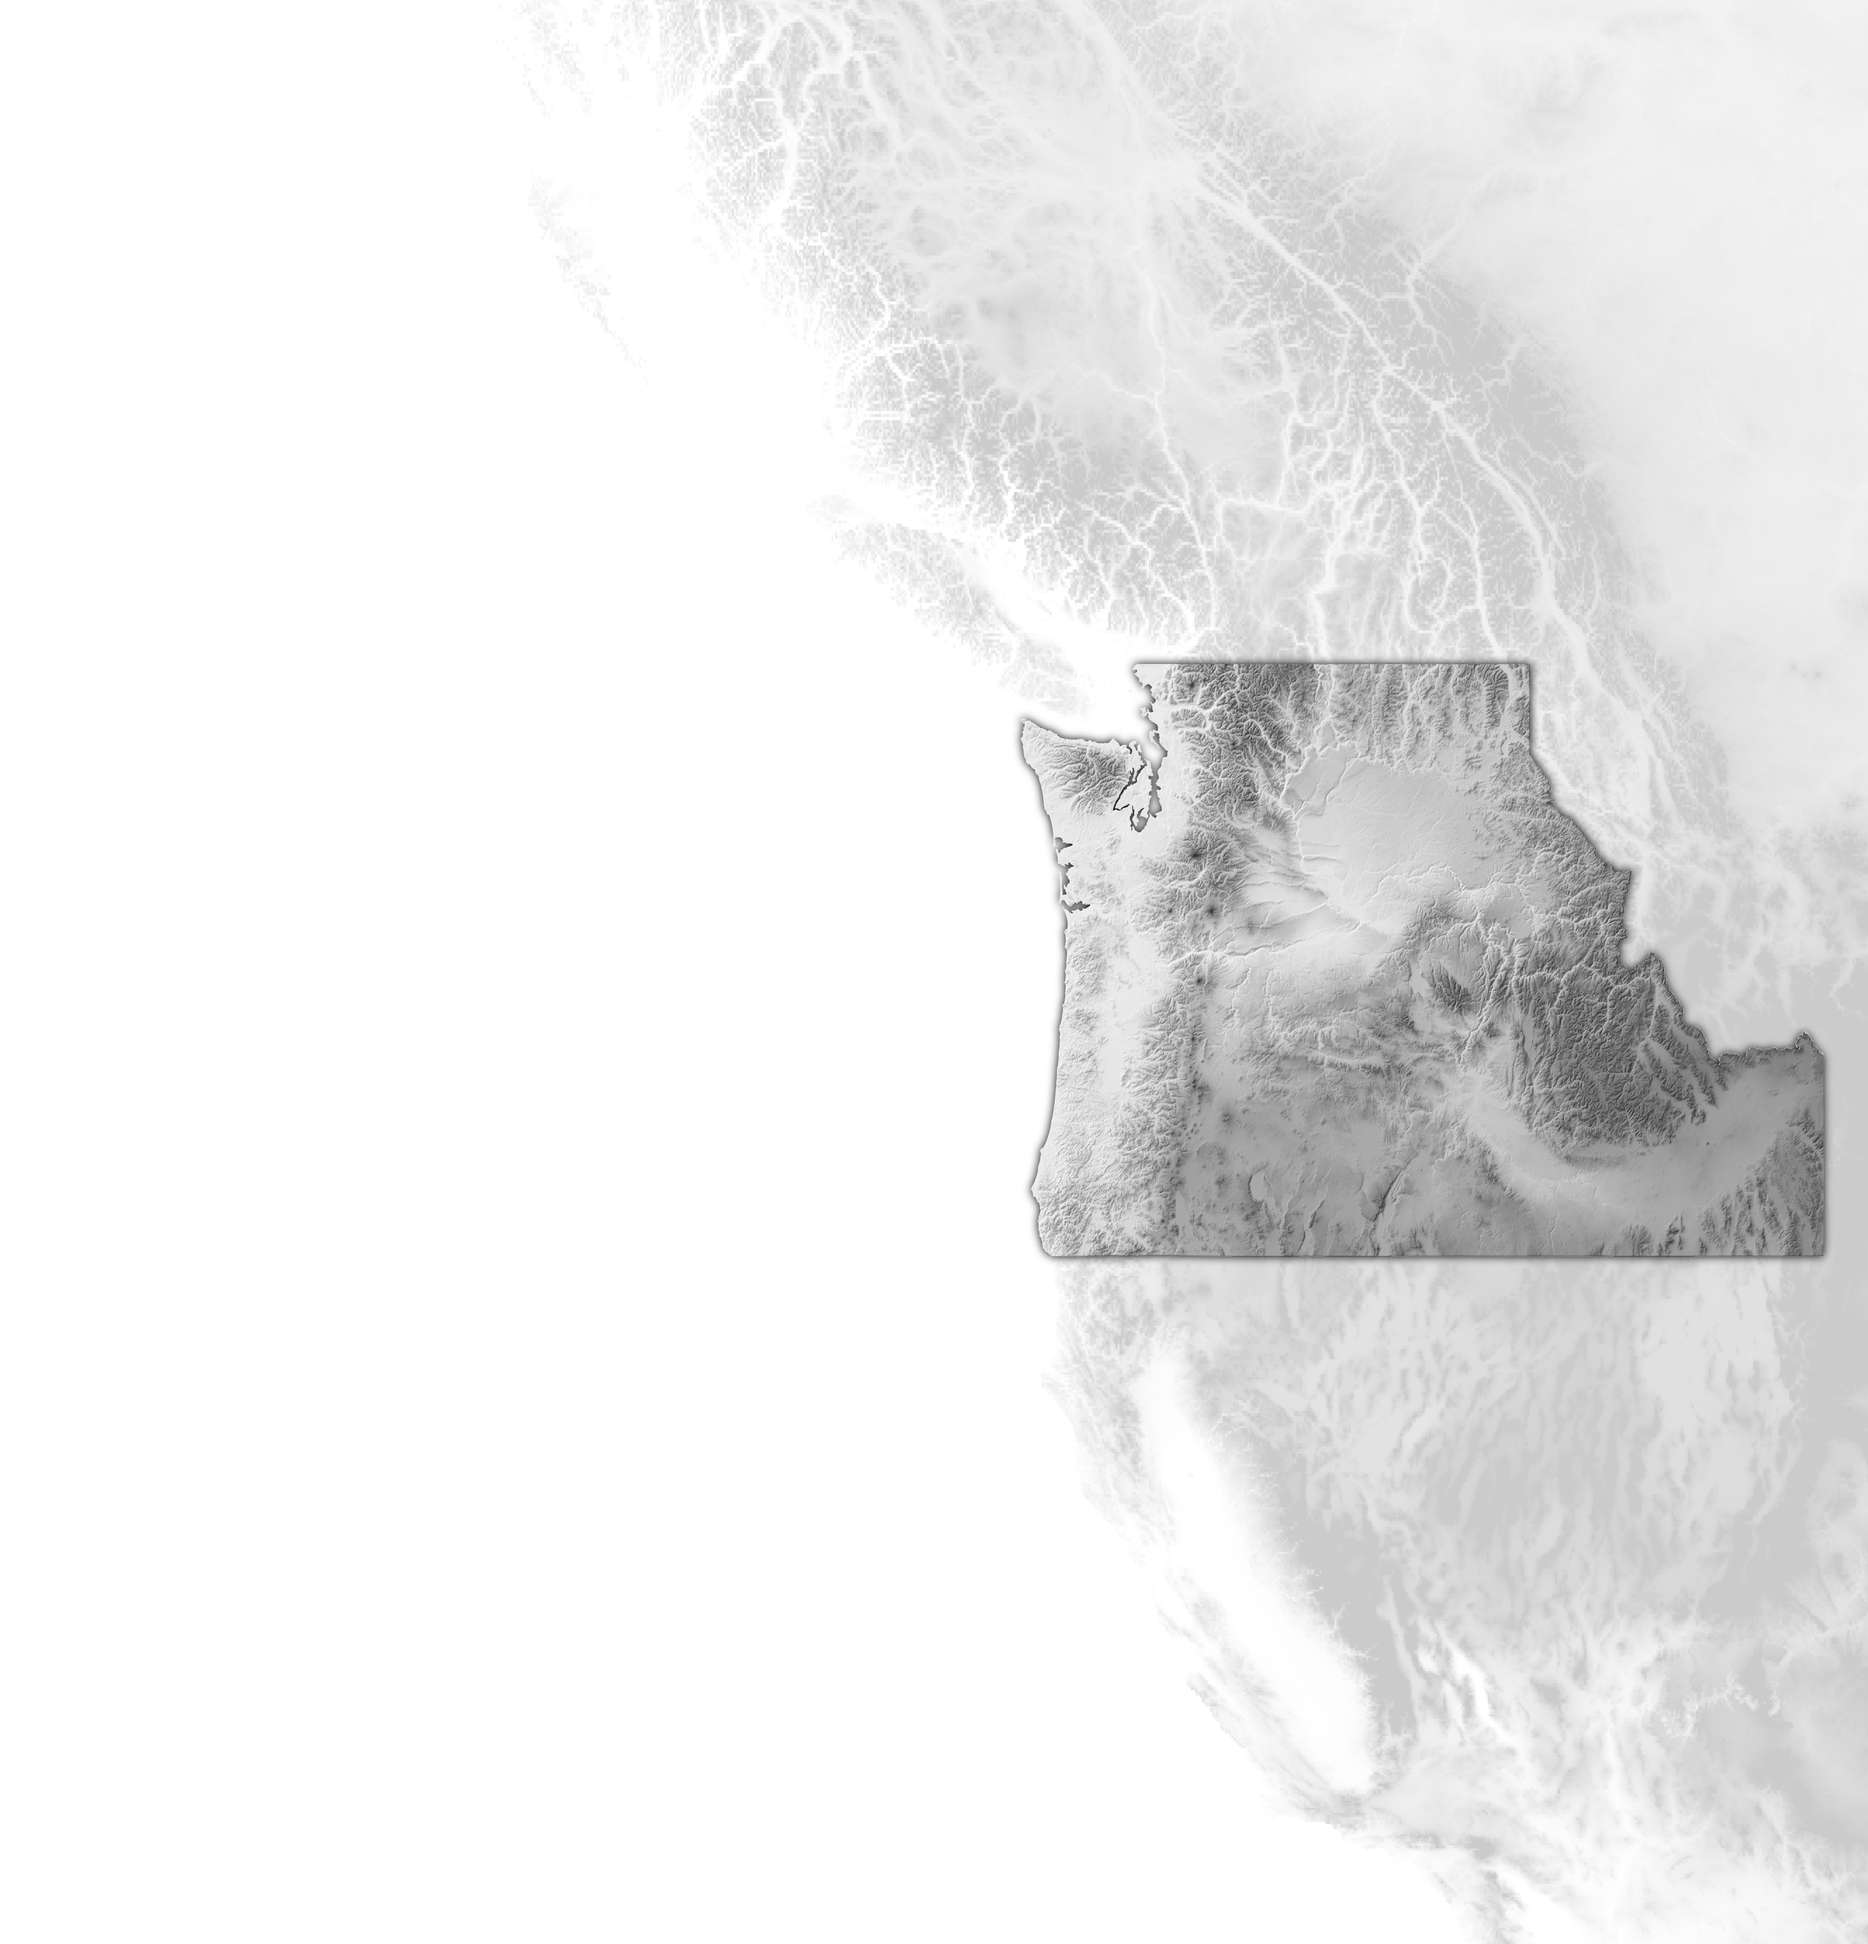
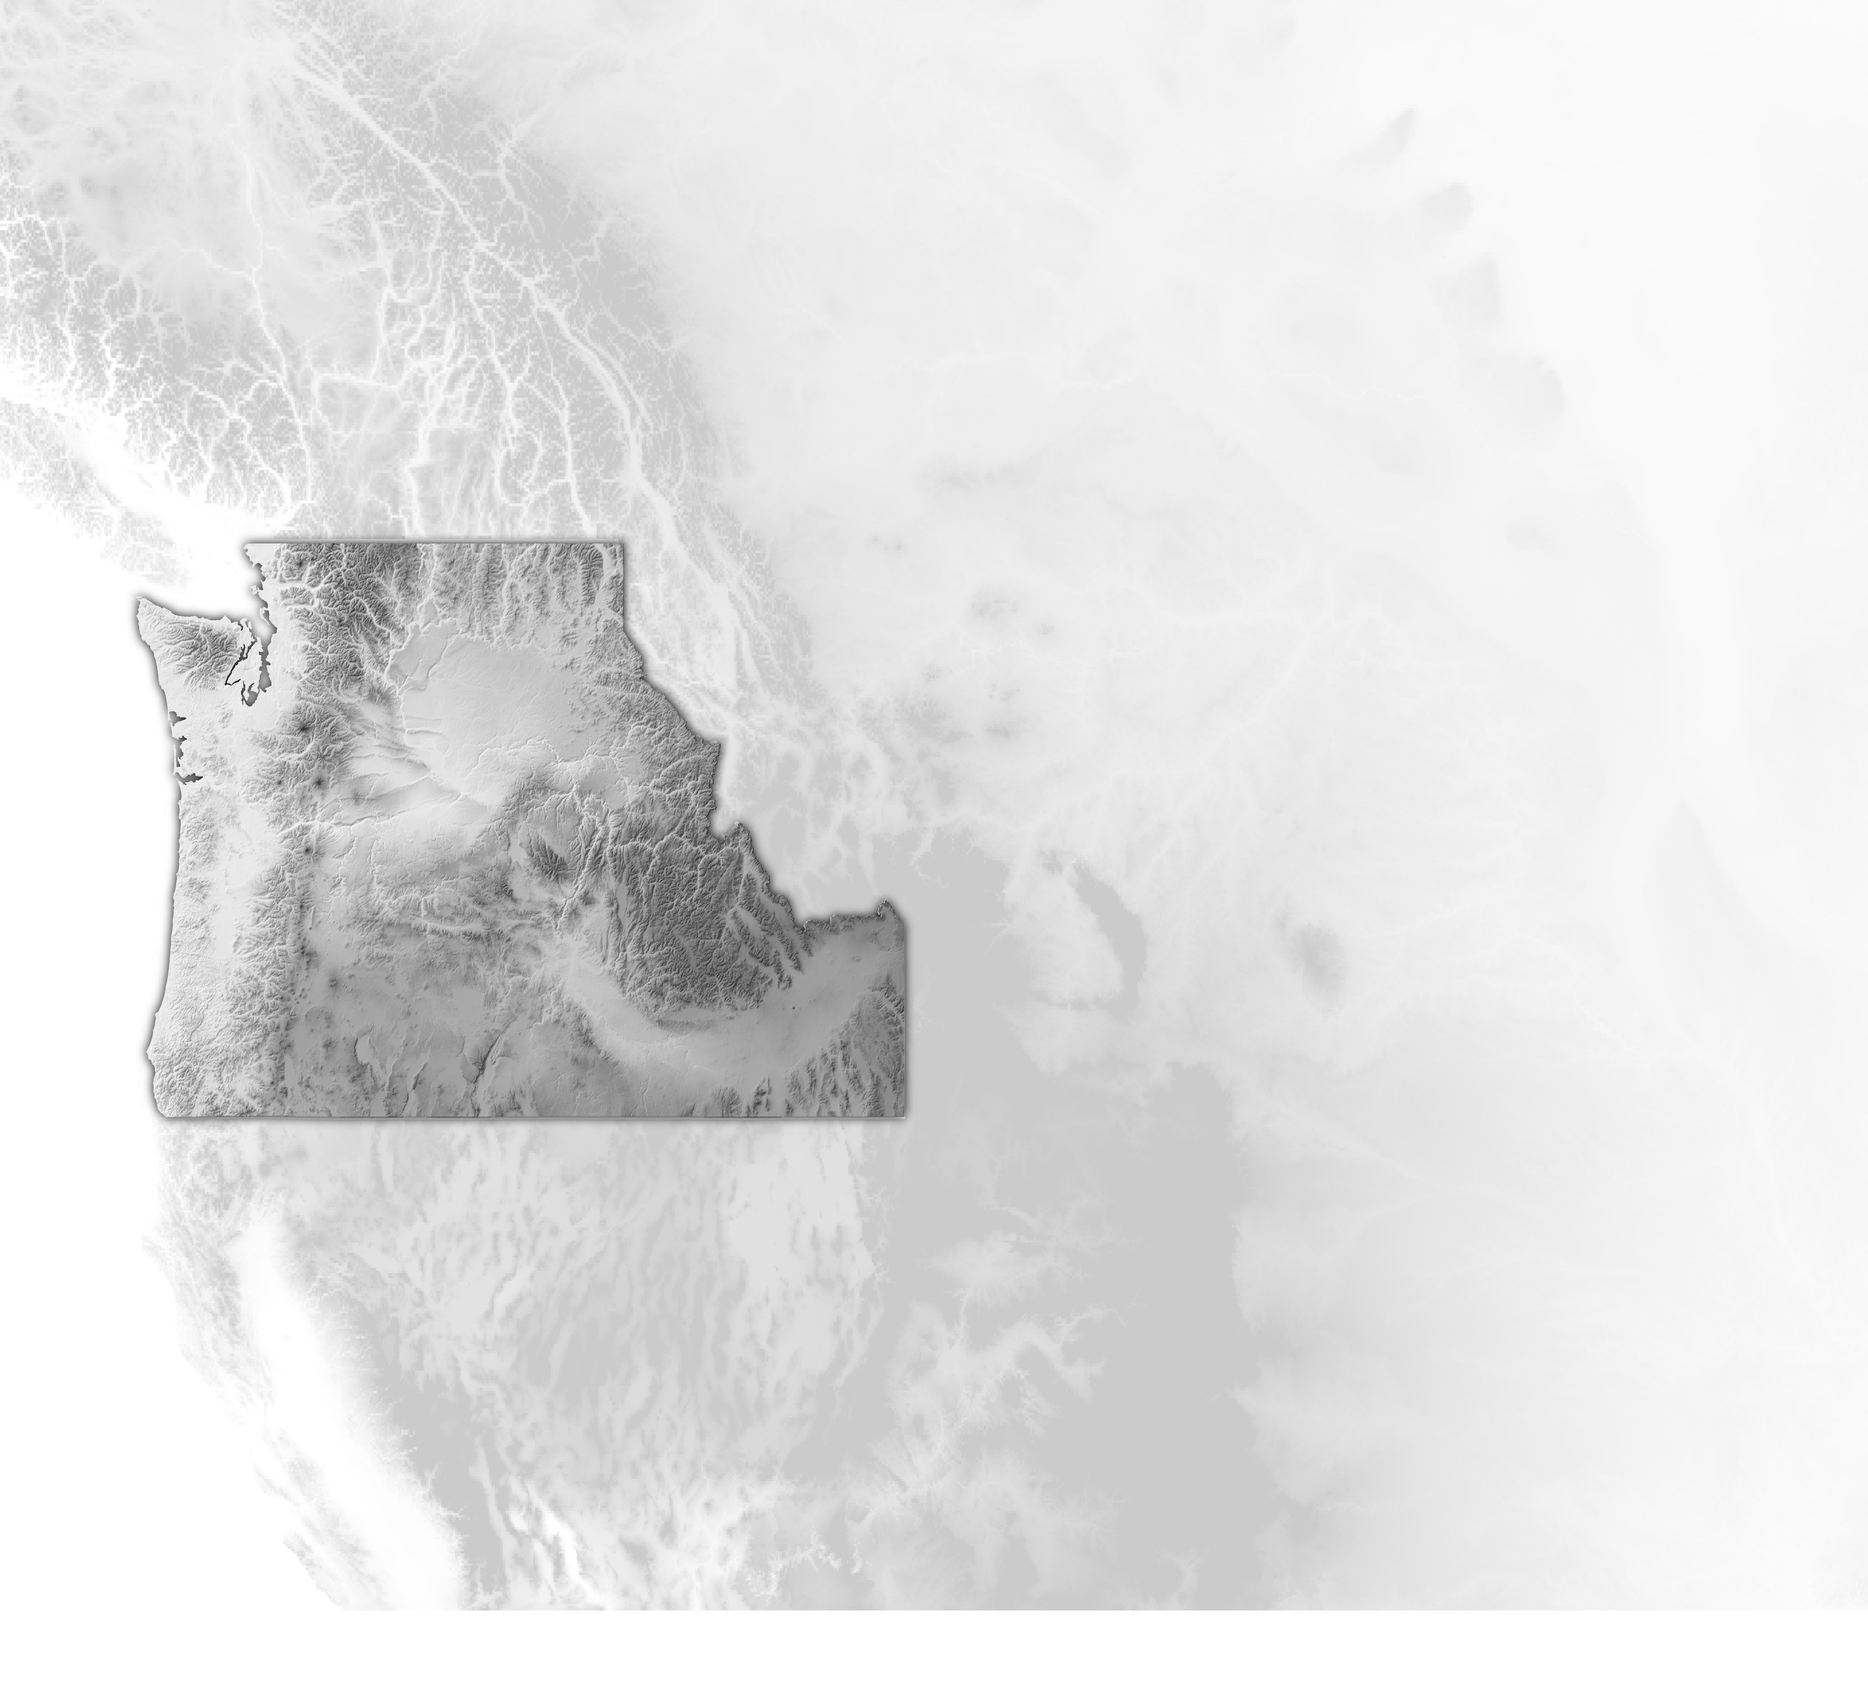
Add files via upload

diff --git a/css/wildlife_style.css b/css/wildlife_style.css
@@ -1,0 +1,209 @@
+@font-face {
+    font-family: GoudyOld;
+    src: url(fonts/GOUDOS.TTF);
+}
+@font-face {
+    font-family: GoudyOld;
+    src: url(fonts/GOUDOSB.TTF);
+    font-weight:bold;
+}
+@font-face {
+    font-family: GoudyOld;
+    src: url(fonts/GOUDOSI.TTF);
+    font-style:italic;
+}
+@keyframes slideInFromLeft {
+  0% {
+    transform: translateX(-100%);
+  }
+  100% {
+    transform: translateX(0);
+  }
+}
+
+html, body {
+	font-family: GoudyOld;
+	width:100%;
+	height:100%;
+	margin:0;
+	padding:0;
+	}
+
+/*background image*/	
+div#gradient{
+	background:url(pnw_boundary2.jpg);
+	background-repeat: no-repeat;
+	background-size: 100%;
+	background-position:70% 50%;
+	height:100%;
+	width:100%;
+	-webkit-animation: 1s ease-out 0s 1 slideInFromLeft;  
+	-ms-animation: 1s ease-out 0s 1 slideInFromLeft;
+	animation: 1s ease-out 0s 1 slideInFromLeft;
+}
+
+/*block sections*/
+div.back{
+	margin:0;
+	padding:0;
+	padding-left:20%;
+	background: rgba(255, 255, 255, 0);
+	background-size: 100% auto;
+}
+
+/*chapter menu divs*/
+div.cover{
+	width:100%;
+	height:100%;
+	margin:0 auto;
+	padding:0;
+	border-radius: 10px;
+	height:100%;	
+}
+div#iconRow{
+    margin: auto;
+    left:50%;
+    width:100%;
+}	
+div.iconBlock{
+	padding: 10px 0px 0px 10px; 
+	margin-right:10%;
+}
+/* about section*/
+#text {
+	text-align: justify;
+	position: relative;
+    width:75%;
+    margin-top:20px;
+    font-size:24px;
+    padding-bottom:50px;
+}
+
+/*main title*/
+h4#main_title{
+	display:inline-block;
+	font-size:5.5vw;
+	text-align:left;
+	margin-bottom:10px;
+	position:relative;
+}
+/*section titles*/
+h1.title, h1.title_2, h1.title_3{
+	color: rgba(0,0,0,1);
+	font-size: 5vw;
+	font-weight:600;
+	text-align:left;
+	padding-right:5%;
+	padding-top:10px;
+	width:60%;
+	margin-top:0;
+}
+/*chapter titles*/
+h3{
+	color: rgba(0,0,0,1);
+	padding:0;
+	font-size:30px;
+	line-height: 30px;
+	/*letter-spacing: 3px;*/
+	text-align:left;
+	display:inline;
+	margin-top:0;
+	margin-bottom:0;
+}
+p {
+	font-size:18px;
+	color:black;
+	margin-top:0px;
+	text-align:left;
+	width:85%;
+}
+
+p3 {
+	font-size:100%;
+	color:black;
+	font-family: GoudyOld;
+	position: relative;
+}
+
+/*icon images*/
+img.img2{
+	height: 40px;
+	width: 40px	;
+	position:absolute;
+	margin:auto;
+	display:inline;
+	text-align:left;
+	margin-bottom:10px;
+	}
+
+/*down arrow*/
+a#arrow{
+	color:black;
+	font-size:36px;
+	position:fixed;
+	bottom:45px;
+	z-index:10;
+	width:50%;
+	text-align:center;
+	bottom:0;
+	left:50%;
+	z-index:10;
+	background:inherit;
+	-webkit-animation: 1s ease-out 0s 1 slideInFromLeft;  
+	-ms-animation: 1s ease-out 0s 1 slideInFromLeft;
+	animation: 1s ease-out 0s 1 slideInFromLeft;
+} 
+#arrow:hover{
+	cursor:default;
+}
+
+/*top banner*/
+div#top{
+	top:0;
+	left:0;
+	position:fixed;
+	height:34px;
+	background:black;
+	width:100%;
+	z-index:1000;
+	color:white;
+}
+div#top a{
+	font-size:24px;
+	color: white;
+	margin-top:2px;
+}
+a#banner2{
+	font-family: GoudyOld;
+	font-size:28px;
+	text-align:right;
+	position:absolute;
+	background-color:none;
+	font-weight:normal;
+	border:none;
+	left:0px;
+	padding:0;
+	color:black;
+	text-decoration:none;
+	margin-left:200px;
+}
+a#banner2:hover{
+	color:#4d4d4d;	
+	cursor:pointer;
+}
+a#banner1{
+	font-family: GoudyOld;
+	font-size:28px;
+	text-align:left;
+	position:absolute;
+	font-weight:bold;
+	border:none;
+	right:0px;
+	padding:0;
+	color:black;
+	text-decoration:none;
+	margin-left:10px;
+}
+a#banner1:hover{
+	cursor:default;
+}
